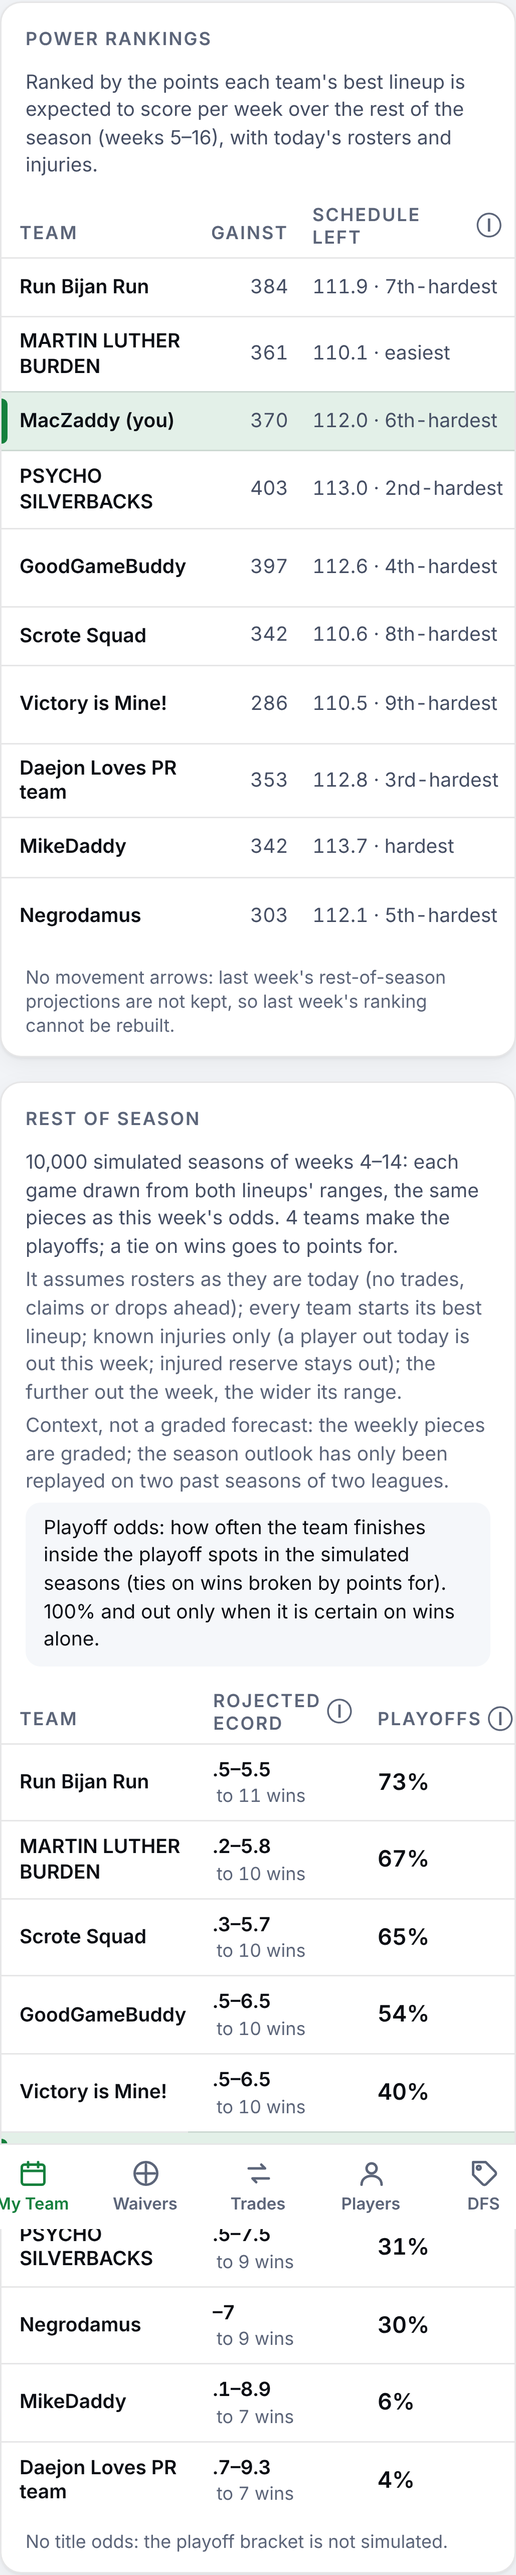
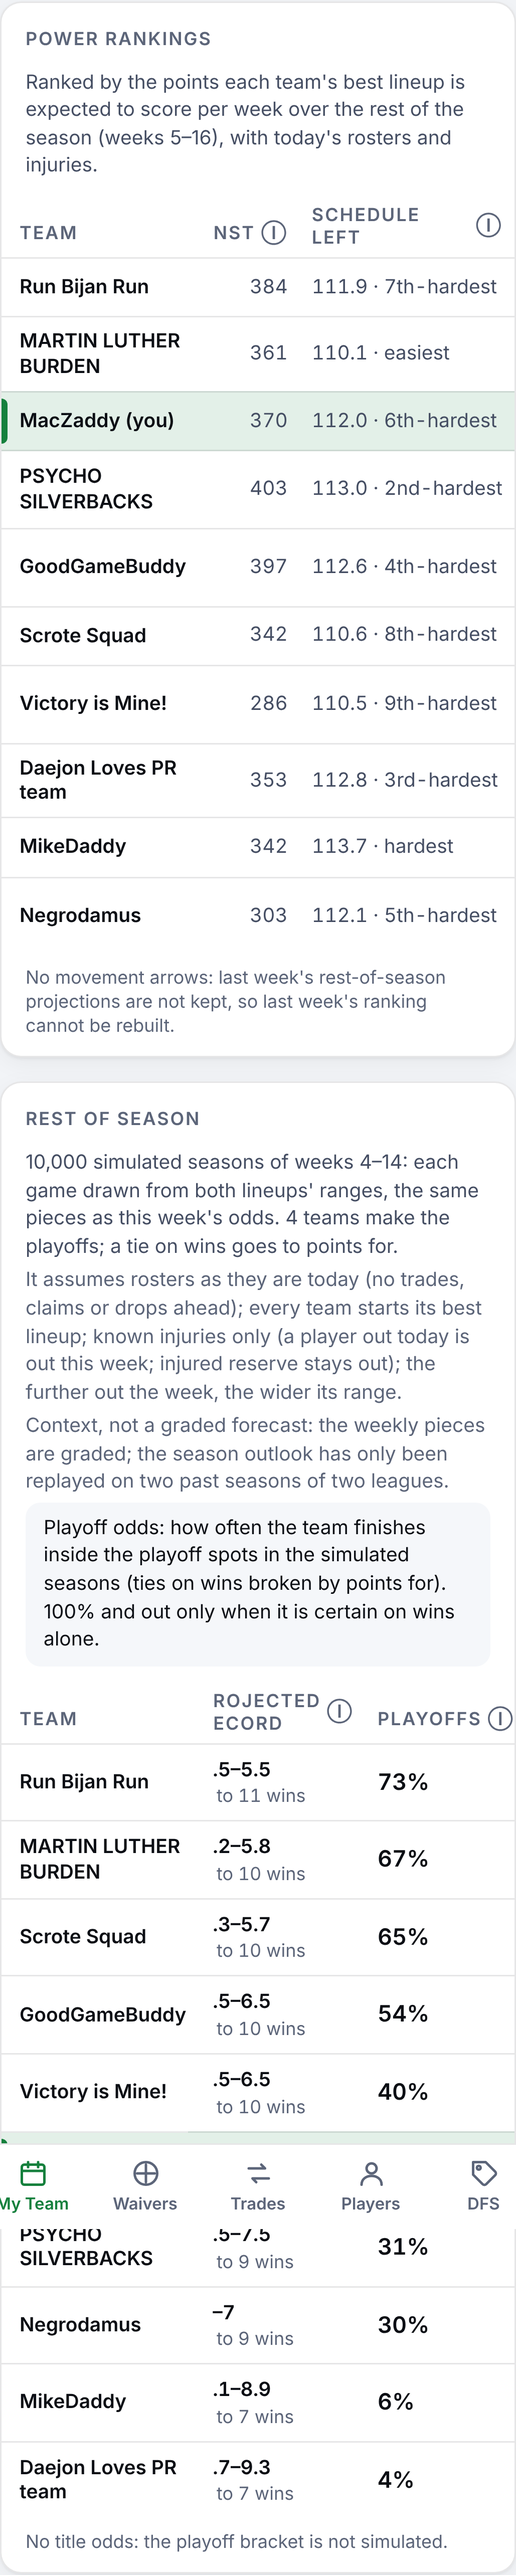
IN-6: Record and Against definitions one tap away; recordings and screenshots refreshed
Claude-Session: https://claude.ai/code/session_01RzBBxEYn5XXDGdXUHqPJ42

Changed region(s): [[0.4976, 0.0623, 0.5598, 0.0935], [0.4354, 0.0623, 0.4665, 0.0935]]

diff --git a/web/src/components/league/Outlook.svelte b/web/src/components/league/Outlook.svelte
@@ -105,8 +105,8 @@
             <tr>
               <th scope="col" class="ll-fix sticky left-0 z-10 bg-surface px-3 py-1.5 text-left align-bottom"><span class="ll-label">Team</span></th>
               {@render head("power", "power", "Per week", "text-right wide:w-[34%]")}
-              {@render head("power", "points_for_rank", "Record · points for")}
-              <th scope="col" class="px-2 py-1.5 text-right align-bottom"><span class="ll-label">Against</span></th>
+              {@render head("power", "record", "Record · points for")}
+              {@render head("power", "points_against", "Against", "text-right")}
               {@render head("power", "schedule_left", "Schedule left")}
             </tr>
           </thead>

diff --git a/web/e2e/in6/fixtures.spec.ts b/web/e2e/in6/fixtures.spec.ts
@@ -69,6 +69,9 @@ for (const scheme of ["dark", "light"] as const) {
     await expect(page.getByTestId("power").getByTestId("league-def")).toHaveText(o.definitions.power);
     await page.getByTestId("def-power").click();
     await expect(page.getByTestId("power").getByTestId("league-def")).toHaveCount(0);
+    await page.getByTestId("def-record").click();
+    await expect(page.getByTestId("power").getByTestId("league-def")).toHaveText(o.definitions.record);
+    await page.getByTestId("def-record").click();
     // the rest of the season: odds per team, sorted, the assumptions, no title odds
     const season = page.getByTestId("season");
     await expect(page.getByTestId("season-row")).toHaveCount(o.outlook.rows.length);

diff --git a/api/league_lab_api/outlook.py b/api/league_lab_api/outlook.py
@@ -83,7 +83,10 @@ DEFINITIONS = {
     "power": "Power ranking: teams in order of the points their best lineup is expected to score per week over the rest "
              "of the season (each week's best legal lineup from today's roster, this league's scoring, the weeks to the "
              "league's final). Record and points so far are beside it, not in it.",
-    "points_for_rank": "Points for: points scored so far in the regular season, and where that ranks in the league.",
+    "record": "Record · points for: the regular-season record so far and the points scored, with where the points rank "
+              "in the league (1st = the most). \"Soft schedule so far\" / \"Hard schedule so far\" when the record's "
+              "place and the points' place are 3 or more apart.",
+    "points_against": "Against: the points scored against the team so far (its opponents' totals in its games).",
     "schedule_left": "Schedule left: the average power number (points per week) of the opponents still to play in the "
                      "regular season. Rank 1 = the hardest schedule left.",
     "projected_record": "Projected record: the average final regular-season record over the simulated seasons, and the "

diff --git a/docs/WORDS.md b/docs/WORDS.md
@@ -472,7 +472,7 @@ them"). The words on the screen (`routes/Players.svelte`, `components/stats/`):
 | its columns | **Projected record** ("8.5–5.5", under it "6 to 11 wins") · **Playoffs** ("73%"; "In" when clinched, "Out" when eliminated — proven on wins; "<1%" / ">99%" otherwise at the ends) · **Top seed** · **Bye** (a league with byes only) | 0% / 100% from the simulation alone |
 | no playoff odds | "No playoff odds: MyFantasyLeague does not share how many teams make the playoffs, so playoff odds are left out." · "… this league has divisions: division winners' places are not simulated." | a guessed number of spots |
 | no outlook | "No outlook for the rest of the season: week 3's results are not final yet: the outlook returns once the league has scored it." · "… the schedule for week 9 is not available from the league." · "… the regular season is over." · "… no range for this league yet." | an empty table; an error card |
-| the definitions (a tap on a column's ⓘ) | **Power ranking**: "teams in order of the points their best lineup is expected to score per week over the rest of the season (each week's best legal lineup from today's roster, this league's scoring, the weeks to the league's final). Record and points so far are beside it, not in it." · **Points for** · **Schedule left** ("Rank 1 = the hardest schedule left.") · **Projected record** ("the middle 80% of the win totals (1 season in 10 ends below, 1 in 10 above)") · **Playoff odds** ("100% and out only when it is certain on wins alone.") · **Top seed** · **Bye** | — |
+| the definitions (a tap on a column's ⓘ) | **Power ranking**: "teams in order of the points their best lineup is expected to score per week over the rest of the season (each week's best legal lineup from today's roster, this league's scoring, the weeks to the league's final). Record and points so far are beside it, not in it." · **Record · points for** ("… \"Soft schedule so far\" / \"Hard schedule so far\" when the record's place and the points' place are 3 or more apart.") · **Against** · **Schedule left** ("Rank 1 = the hardest schedule left.") · **Projected record** ("the middle 80% of the win totals (1 season in 10 ends below, 1 in 10 above)") · **Playoff odds** ("100% and out only when it is certain on wins alone.") · **Top seed** · **Bye** | — |
 <!-- ---- end IN-6 -->
 
 ## Adding to it
